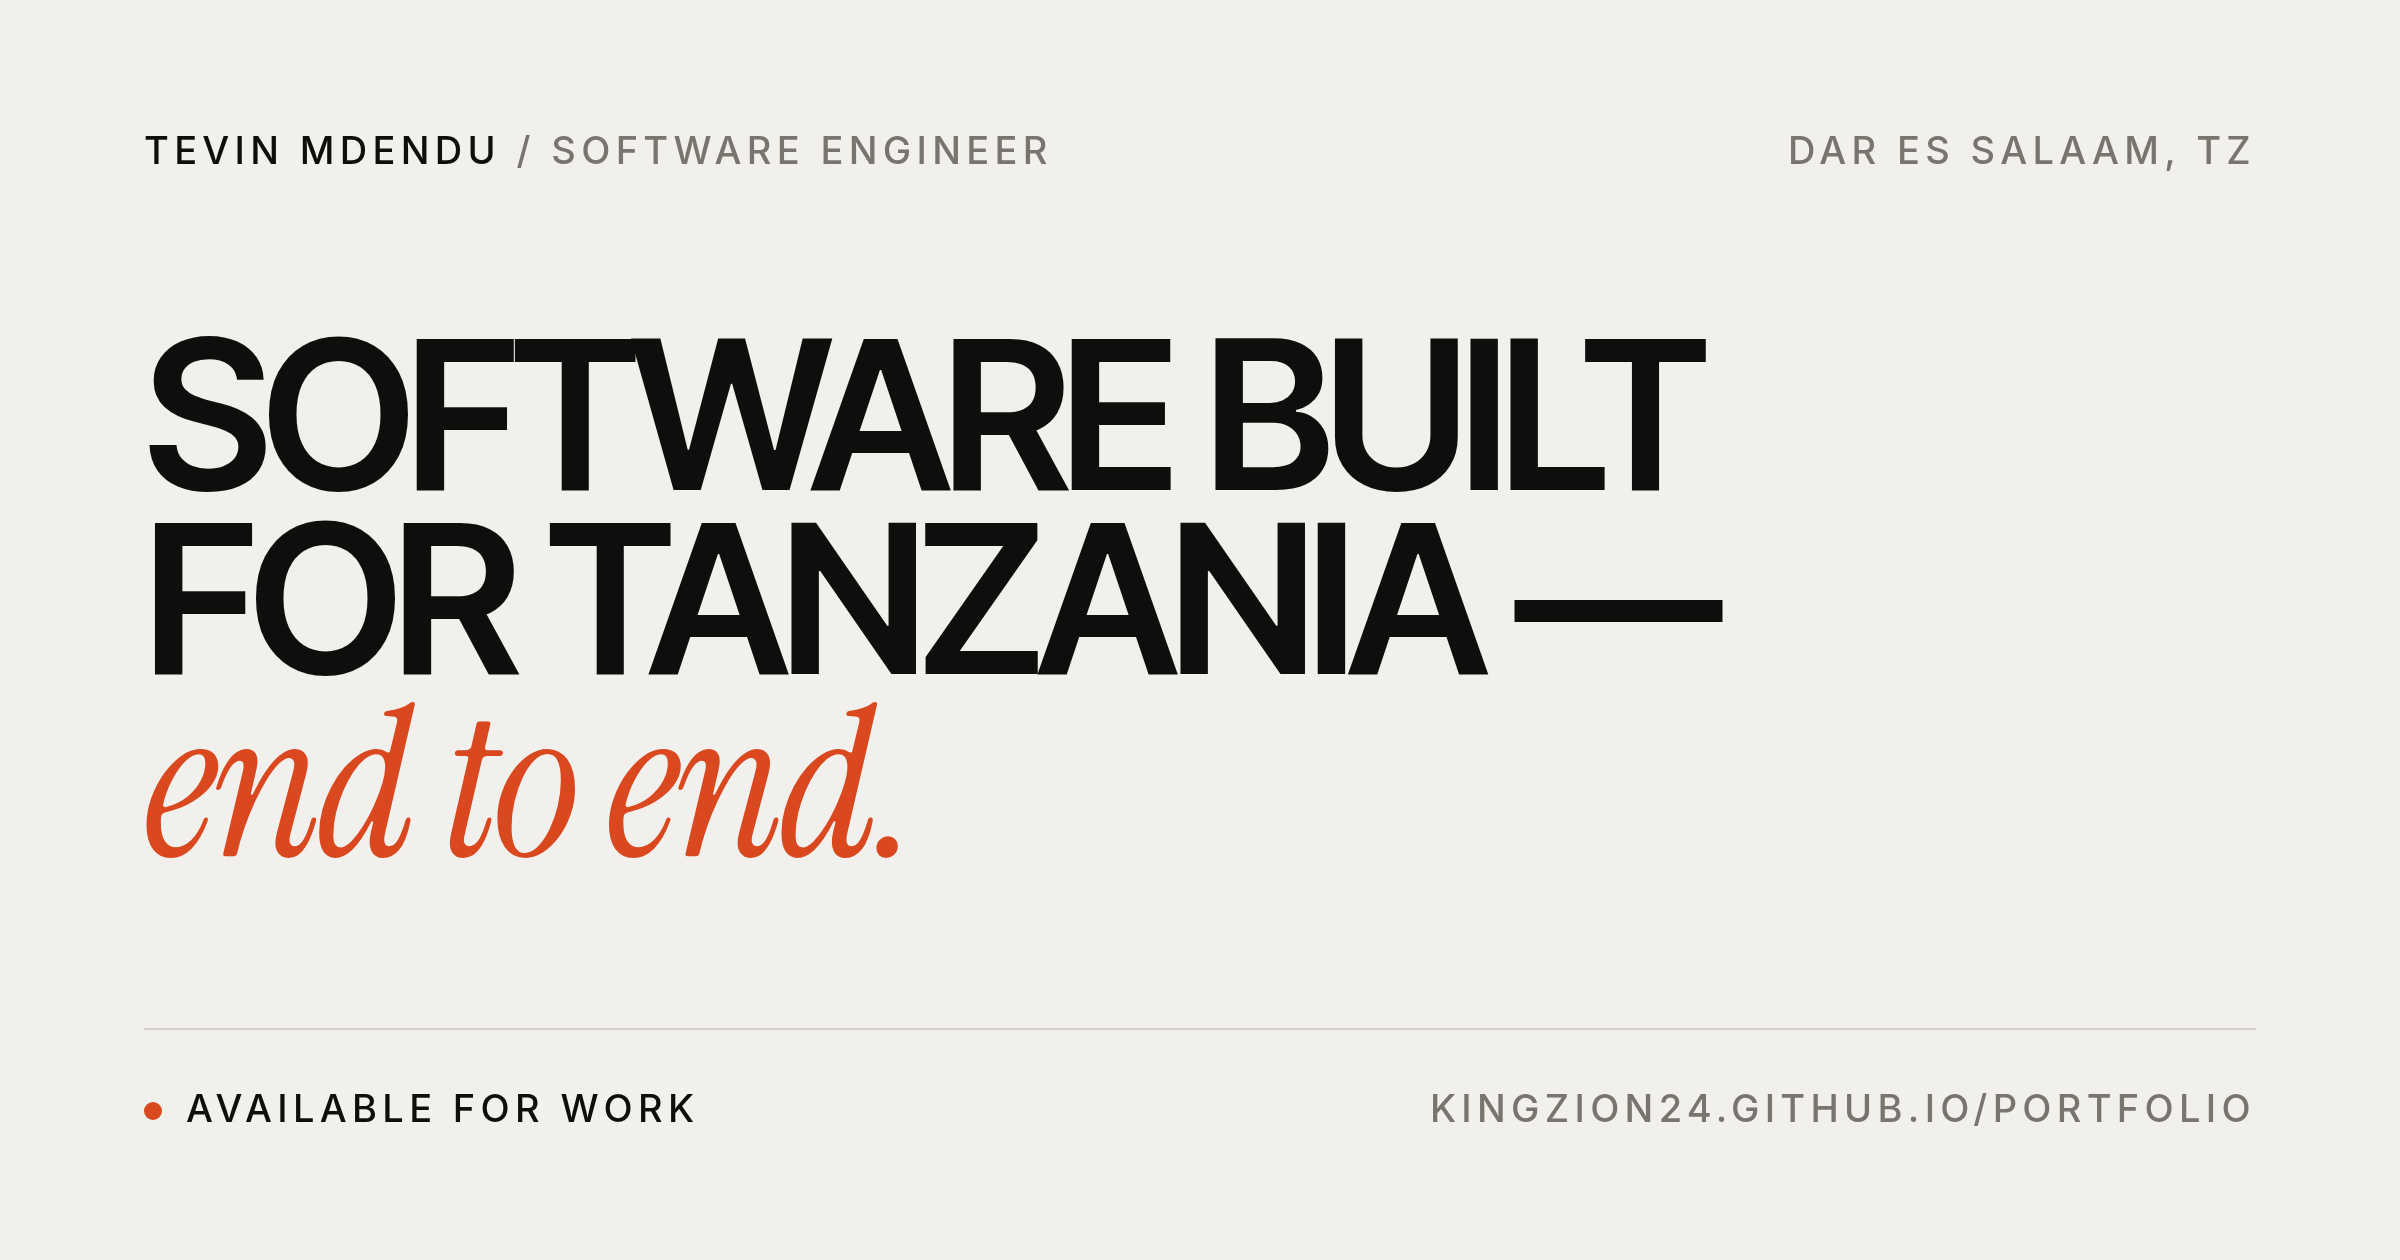
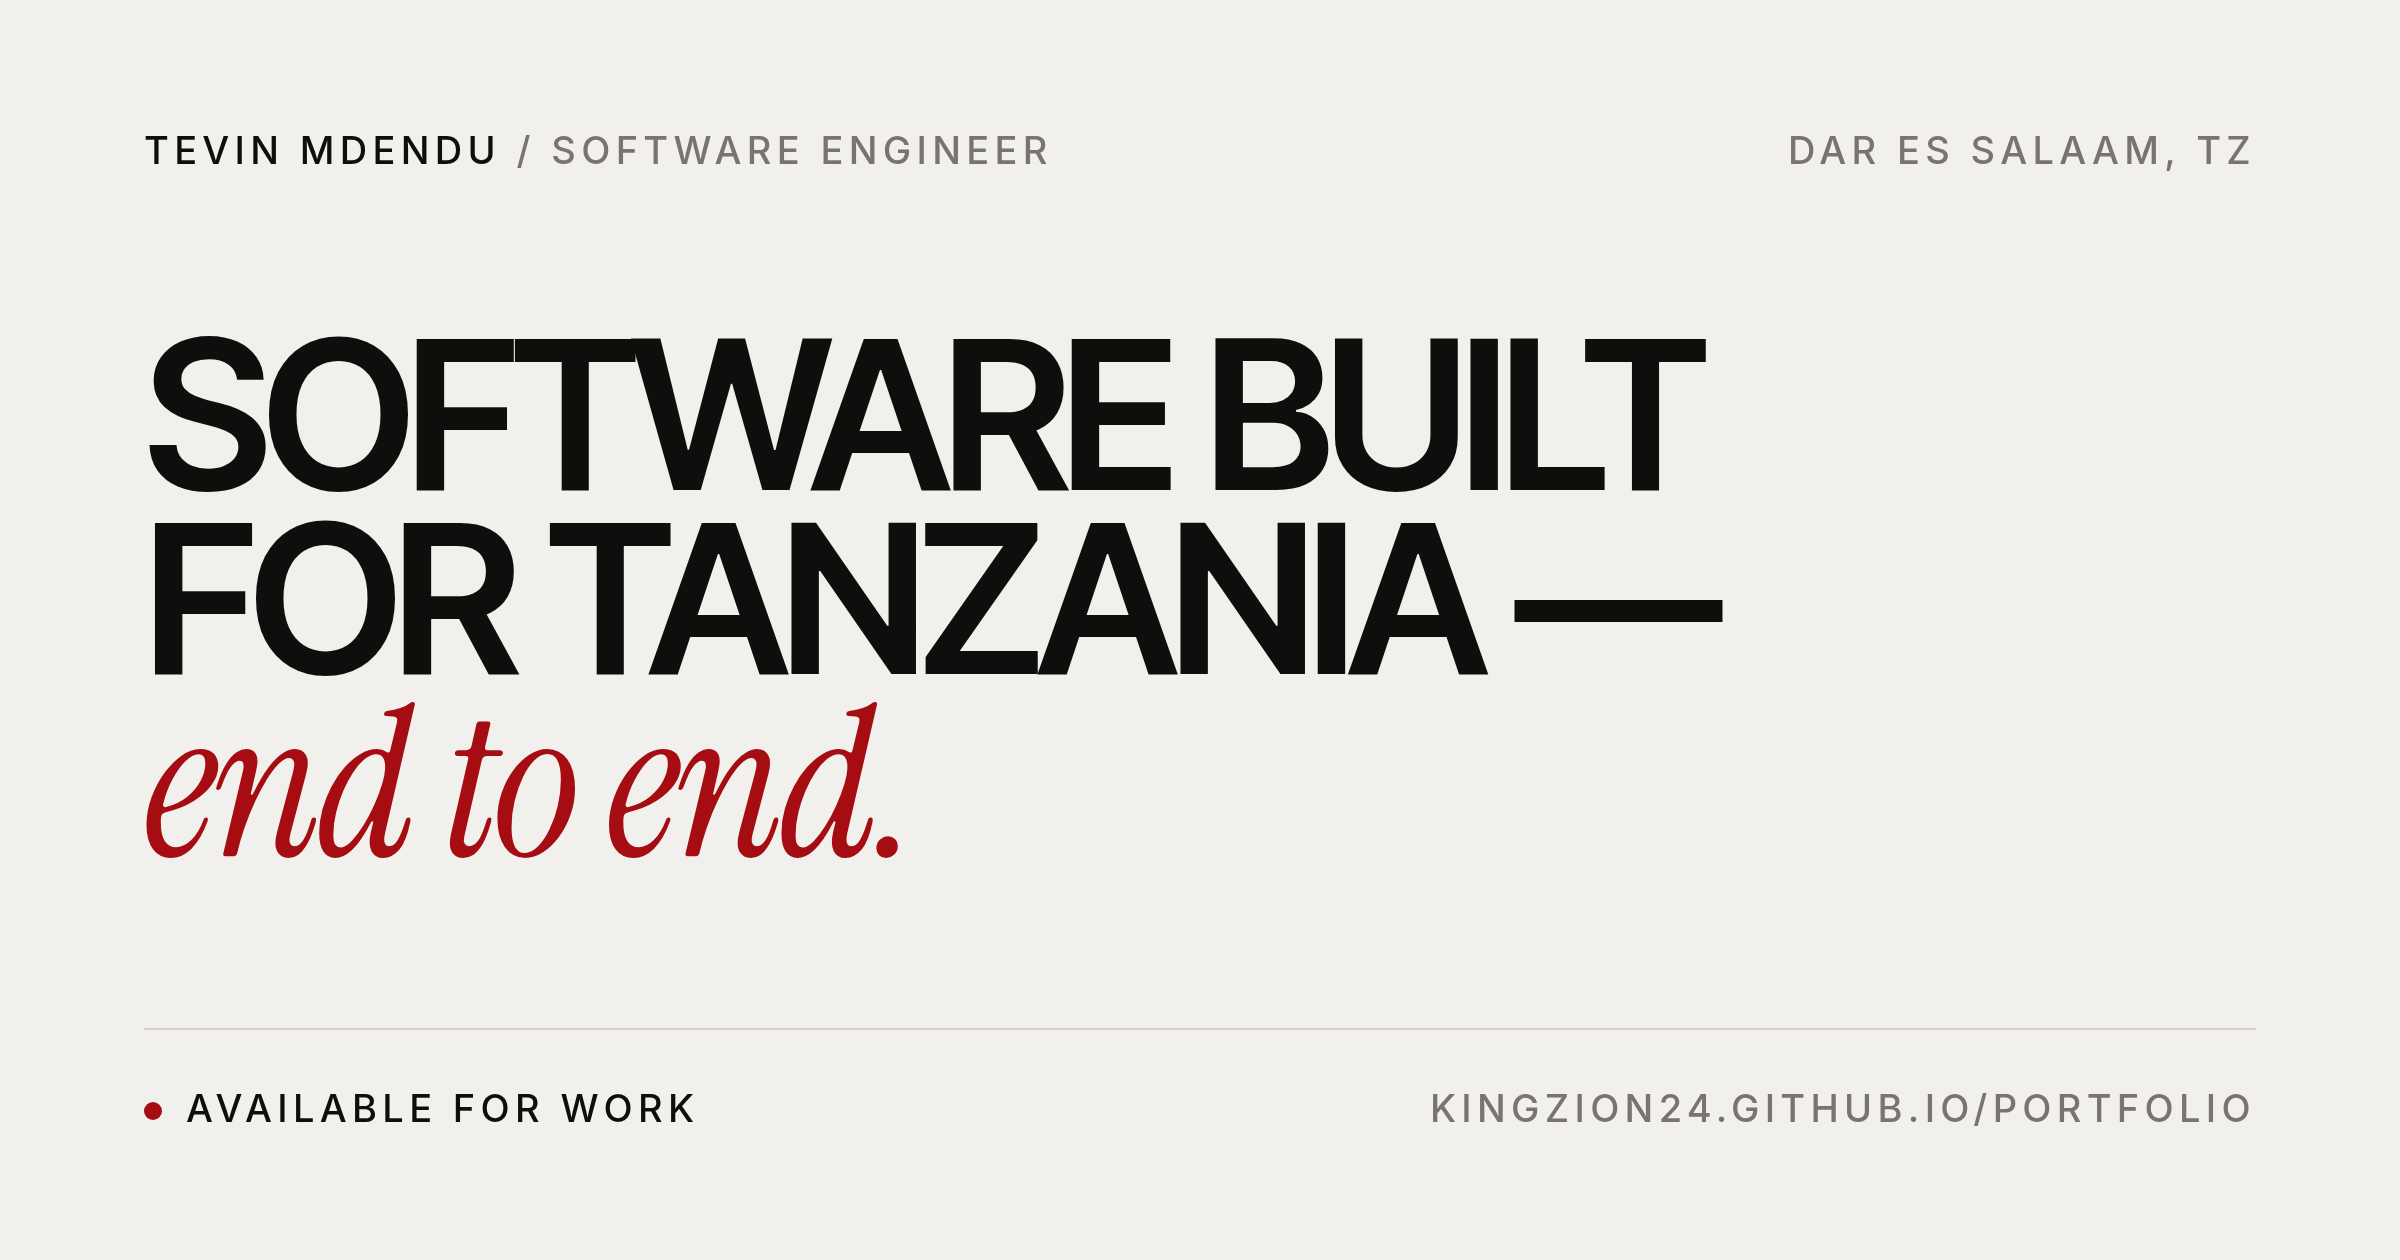
Blood-red accent; keep the real cursor over work cards
The accent moves from orange to #a50d12, and the link preview card is
regenerated to match. The Visit bubble now trails beside the pointer
instead of hiding and replacing it.

Changed region(s): [[0.0625, 0.5571, 0.375, 0.681]]

diff --git a/src/components/cursor-badge.tsx b/src/components/cursor-badge.tsx
@@ -4,8 +4,9 @@ import { motion, useMotionValue, useSpring } from "framer-motion";
 import { useEffect, useState } from "react";
 
 /**
- * A round label that trails the pointer while `active`. Mouse and trackpad only —
- * touch screens have no hover to follow.
+ * A round label that trails just below-right of the pointer while `active`; the
+ * cursor itself stays as it is. Mouse and trackpad only — touch screens have no
+ * hover to follow.
  */
 export function CursorBadge({ active, label }: { active: boolean; label: string }) {
   const [enabled, setEnabled] = useState(false);
@@ -44,7 +45,7 @@ export function CursorBadge({ active, label }: { active: boolean; label: string 
         initial={false}
         animate={{ scale: active ? 1 : 0, rotate: active ? 0 : -45 }}
         transition={{ type: "spring", stiffness: 380, damping: 26 }}
-        className="-ml-12 -mt-12 grid h-24 w-24 place-items-center rounded-full bg-accent label text-bg"
+        className="ml-5 mt-5 grid h-24 w-24 place-items-center rounded-full bg-accent label text-bg"
       >
         {label}
       </motion.div>

diff --git a/src/components/horizontal-work.tsx b/src/components/horizontal-work.tsx
@@ -94,7 +94,7 @@ export function HorizontalWork({ projects }: { projects: Project[] }) {
       rel="noreferrer"
       onPointerEnter={() => setHovered(true)}
       onPointerLeave={() => setHovered(false)}
-      className="group relative block w-[84vw] shrink-0 snap-center sm:w-[70vw] lg:w-[58vw] xl:w-[52vw] [@media(pointer:fine)]:cursor-none"
+      className="group relative block w-[84vw] shrink-0 snap-center sm:w-[70vw] lg:w-[58vw] xl:w-[52vw]"
     >
       <Reveal shift={false} delay={i * 120} className="clip-reveal">
         <div>

diff --git a/src/app/globals.css b/src/app/globals.css
@@ -5,7 +5,7 @@
   --color-ink: #0e0e0d;
   --color-muted: #78756e;
   --color-line: #d7d3cb;
-  --color-accent: #d9481e;
+  --color-accent: #a50d12;
   --color-inverse: #0e0e0d;
 
   --font-display: var(--font-display), ui-sans-serif, system-ui, sans-serif;
